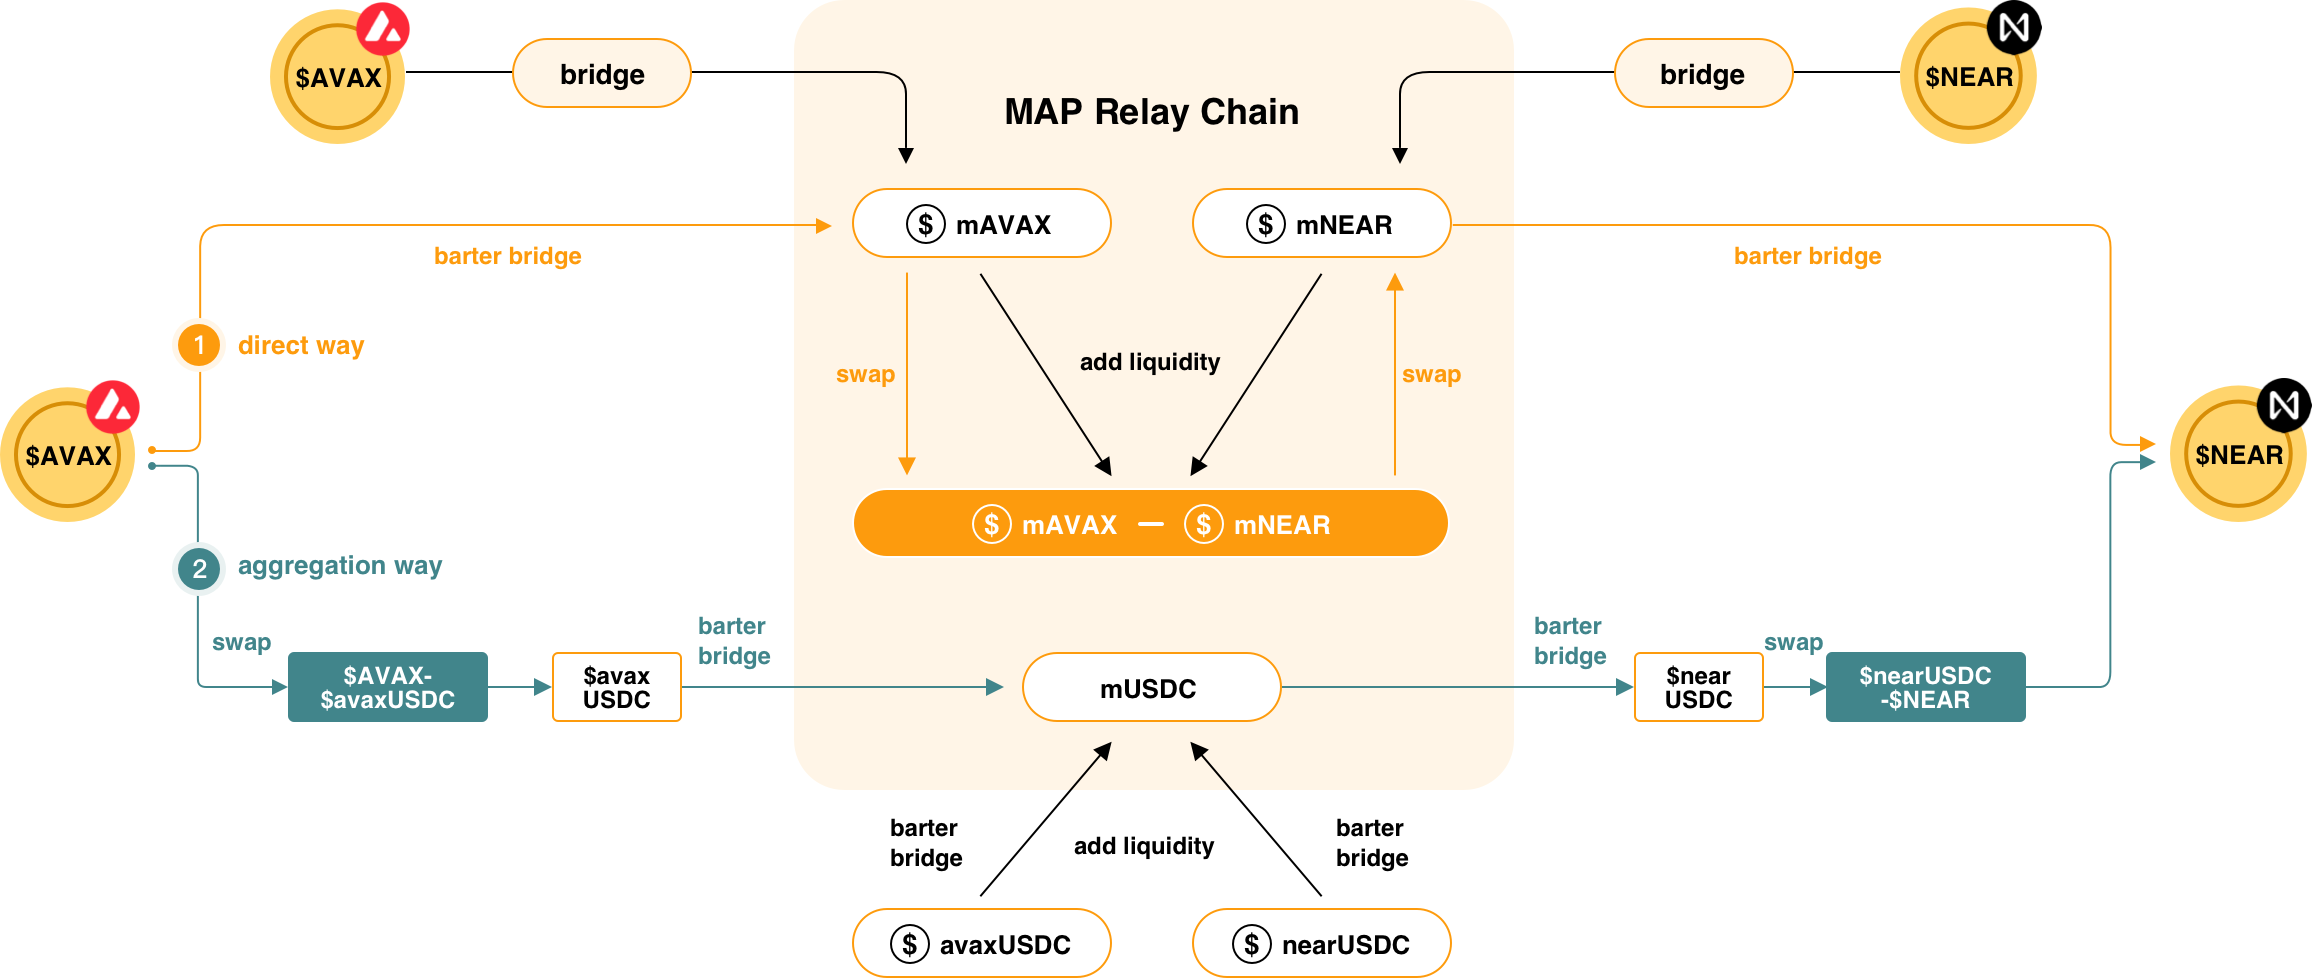
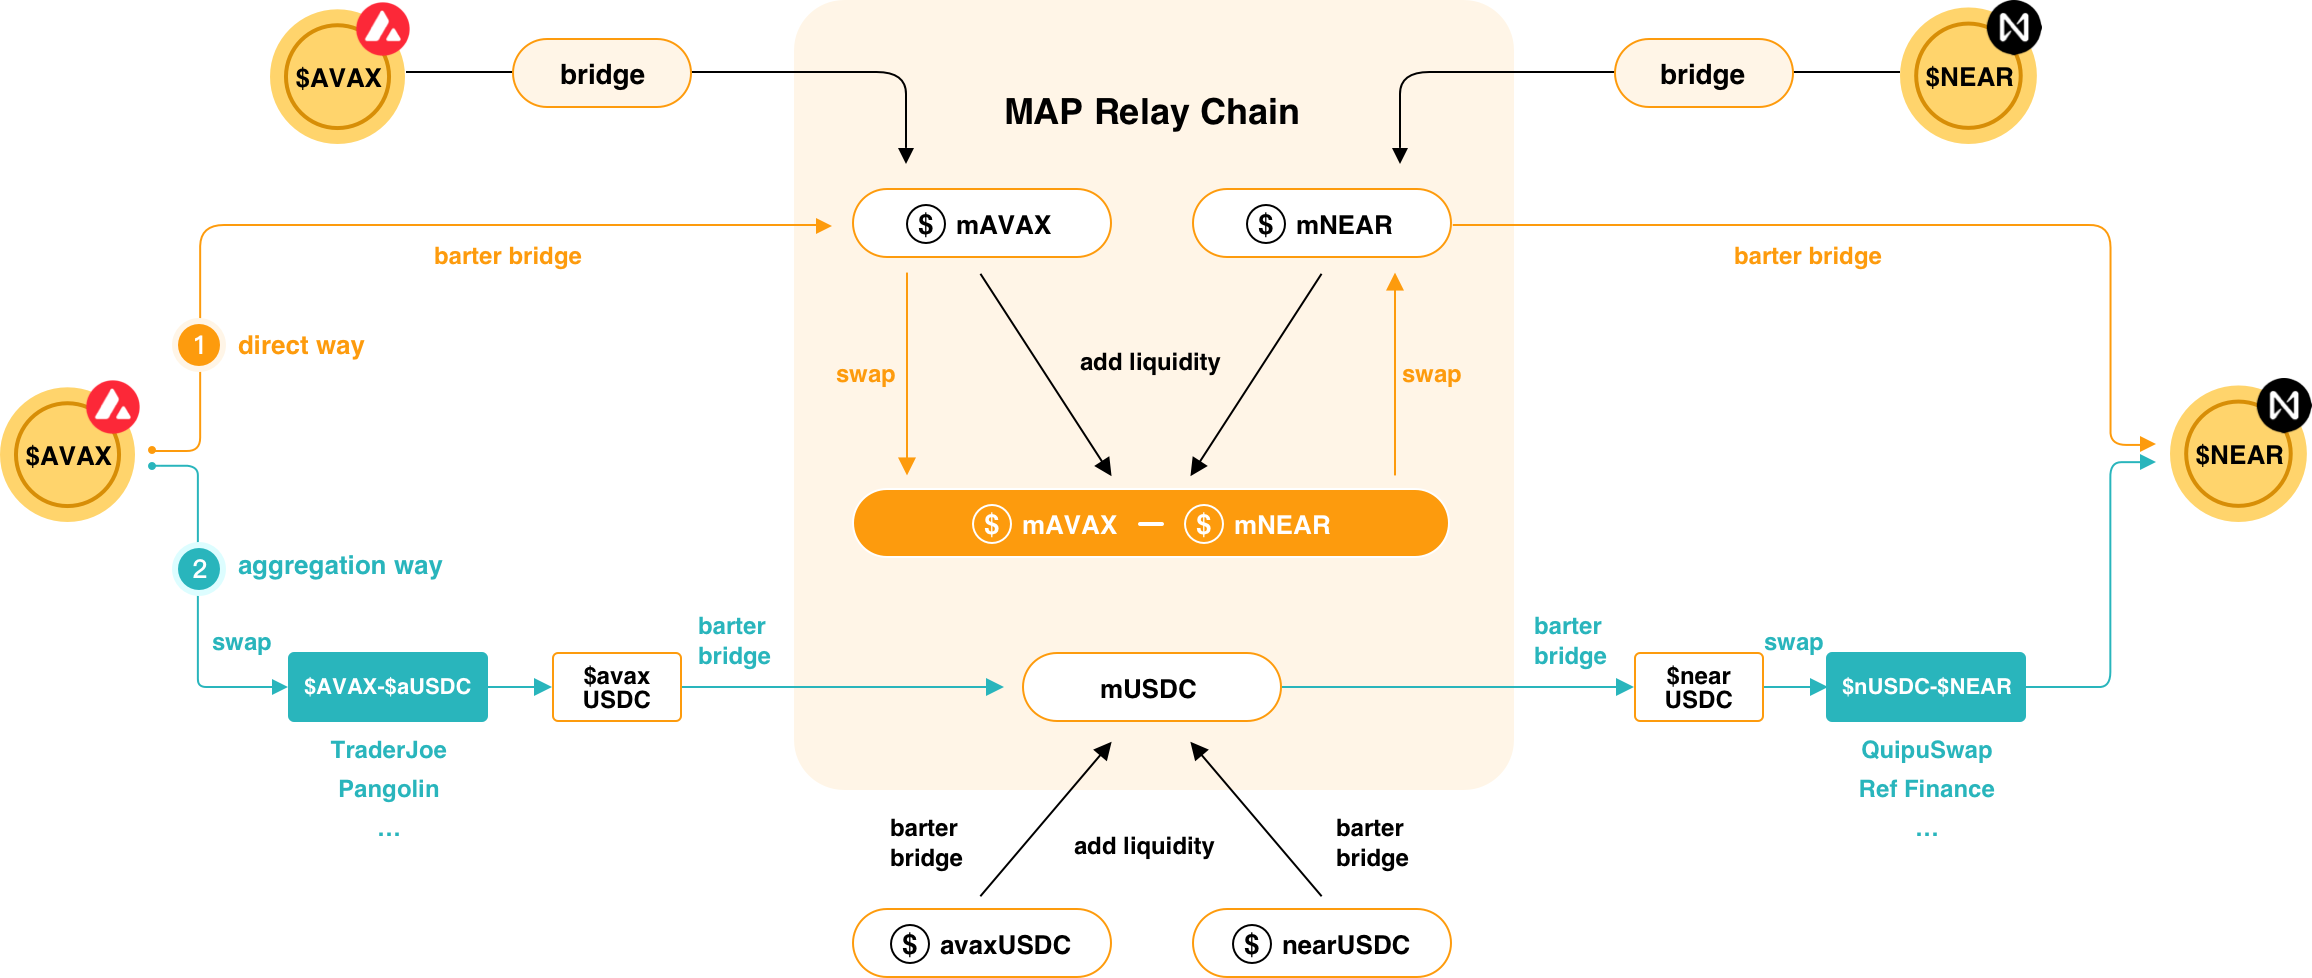
finish

diff --git a/docs/Learn/how-barter-works.md b/docs/Learn/how-barter-works.md
@@ -3,31 +3,32 @@
 Before diving into how Barterswap works, let's first understand its components.  
 
 ## Barterswap Components
-Barterswap consists of three components.  
+Barterswap consists of three main components.  
 
-1. Barter Bridge - A cross-chain bridge developed upon MAP Protocol.
-2. Barter Core - A pioneering cross-chain swapping implementation.
-3. Barter Aggregator - Find the best cross-chain swap route among major DEXs. 
+* Barter Bridge - A cross-chain bridge developed upon MAP Protocol.
+* Barter Core - A pioneering cross-chain swapping implementation.
+* Barter Aggregator - A smart routing service that finds the best cross-chain route among major DEXs. 
 
 ### Barter Bridge
 
-Barter Bridge is a cross-chain bridge built upon MAP protocol. It allows the establishment of connections with all chains barrierless. In short, Barter Bridge allows users to move tokens from one chain to another in a truly decentralized way. The bridge process is fast, cheap, and ensures maximum security thanks to MAP Protocol.
+Barter Bridge is a cross-chain bridge built upon MAP protocol. It allows the establishment of connections with all chains barrierless. In short, Barter Bridge allows users to move tokens from one chain to another in a truly decentralized way. The bridge process is fast, cheap, and ensures maximum security thanks to MAP Protocol.  
+Barter Bridge ensures maximum security, we used blockchain-level security to ensure there is absolutely no risk for users' assets, which no other cross-chain exchange is able to guarantee.
 
 ### Barter Core
-![Barter Core](/img/barter/core.png "Bridge Core")
+![Barter Core](/static/img/barter/core.png "Bridge Core")
 
-Barter Core is a pioneering cross-chain exchange implementation deployed on MAP Protocol's Relay Chain. It allows Barterswap's liquidity pool to hold tokens from different chains such as $AVAX and $NEAR. This also means users can directly exchange tokens from different chains in one liquidity pool.  
+Barter Core is a pioneering cross-chain exchange implementation deployed on MAP Protocol's Relay Chain. It allows Barterswap's liquidity pool to hold tokens from different chains such as $AVAX and $NEAR. This also means users can directly exchange tokens from different chains in one liquidity pool. Better yet, Barterswap guarantees the lowest fee rate with only a 0.4% fee for cross-chain swap, which by far is the lowest compared to others.
 
 ### Barter Aggregator  
 
-![Barter Aggregator](/img/barter/aggregator.png "Bridge Aggregator")
+![Barter Aggregator](/static/img/barter/aggregator.png "Bridge Aggregator")
 Barter Aggregator uses the most advanced price tracing algorithm to find the best cross-chain exchange route based on major DEXs on the market.
 
 ## Cross-Chain Exchange Process
 The diagram below shows how Barterswap really works.
-![Barter Flow](/img/barter/flow.png "Bridge Flow")  
+![Barter Flow](/static/img/barter/flow.png "Bridge Flow")  
 Let's assume Alice wants to swap some of her $AVAX on Avalanche for some $NEAR on Near. There are two ways of exchange using Barterswap:
 1. Direct Swap (Default)  
-First of all, $AVAX token will be wrapped as $mAVAX (a MAP representation of $AVAX) through Barter Bridge. Then $mAVAX will be exchanged through $mAVAX-$mNEAR liquidity pool for $mNEAR. Finally, unwrap $mNEAR through Barter Bridge and send $NEAR to Alice.
+First of all, $AVAX token will be wrapped as $mAVAX (a MAP representation of $AVAX) through Barter Bridge. Then $mAVAX will be exchanged through $mAVAX-$mNEAR liquidity pool for $mNEAR. Finally, unwrap $mNEAR through Barter Bridge and send $NEAR to Alice. And Barterswap only charges a 0.4% fee for the whole process.
 2. Aggregation Swap  
-If unfortunately, there is no $mAVAX-$mNEAR pool, Barterswap will use Barter Aggregator to consider major DEXs on Avalanche, all liquidity pools on Barterswap, and major DEXs on NEAR together, using our advanced algorithm to find the best trade route for Alice. In this case, Barterswap will swap $AVAX for $avaxUSDC on let's say, Trader Joe. Then wrap $avaxUSDC as $mUSDC, unwrap $mUSDC to $nearUSDC, and finally swap $nearUSDC for $NEAR through Near's DEX.
+If unfortunately, there is no $mAVAX-$mNEAR pool, Barterswap will use Barter Aggregator to consider major DEXs on Avalanche, all liquidity pools on Barterswap, and major DEXs on NEAR together, using our advanced algorithm to find the best trade route for Alice. In this case, Barterswap will swap $AVAX for $aUSDC on let's say, Trader Joe. Then wrap $aUSDC as $mUSDC, unwrap $mUSDC to $nUSDC, and finally swap $nUSDC for $NEAR through Quickswap.

diff --git a/docs/Learn/introduction.md b/docs/Learn/introduction.md
@@ -1,4 +1,4 @@
-![Barter Flow](/img/barter/barter-logo.png "Bridge Flow")  
+![Barter Flow](/static/img/barter/barter-logo.png "Bridge Flow")  
 # Overview
 
 ## Background
@@ -7,24 +7,26 @@ For a long time, the cross-chain exchange market has been dominated by centraliz
 
 ## Introduction
 
-Barterswap is a truly decentralized cross-chain exchange deployed on [MAP Protocol](https://www.maplabs.io/). Our mission is to revolutionize the cross-chain status-quo and forge a genuinely decentralized cross-chain exchange with maximum security, minimum fee, and the smoothest cross-chain experience for the crypto community.
-
-The critical difference between Barterswap and other cross-chain exchanges is that Barterswap uses an innovative cross-chain model. __Users can add multi-chain liquidity and exchange between them directly using a genuinely decentralized way.__
+Barterswap is a truly decentralized cross-chain exchange built on [MAP Protocol](https://www.maplabs.io/). Our mission is to revolutionize the cross-chain status-quo and forge a genuinely decentralized cross-chain exchange with maximum security, minimum cost, and the smoothest cross-chain experience for the crypto community.
 
 ## Features
 
-### One-Step Exchange
+### All Chains Supported
 
-Just one click to complete the whole cross-chain exchange process.
+As long as a blockchain is smart contract friendly, Barterswap will support it, EVM or non-EVM. This lets users swap assets from different chains frictionlessly.
+
+### Maximum Security
+
+Barterswap offers the highest level of security that no other cross-chain DEXs is able to offer.
+
+### Lowest Fee Rate
+
+Barterswap guarantees the lowest cost for cross-chain swap. By the lowest we mean the truly lowest, not relying on token incentives to compensate for the cost.
+
+### One Step Swap
+
+Barterswap wants to give users the best possible experience, users are able to complete complex cross-chain exchanges in just one step. 
 
 ### Trade Path Optimization
 
-Barterswap Aggregator adopts the most advanced price tracing algorithm and calculates the best cross-chain route based on most DEXs.
-
-### Blockchain Infrastructure Security
-
-Barterswap is built upon MAP Protocol, the only cross-chain infrastructure supporting all chains with top-tier cross-chain security technology.
-
-### Cost-Efficiency Optimization
-
-The superior efficiency of MAP Protocol leads to substantially low cross-chain costs. Barterswap has the lowest cost compared to other major cross-chain exchange projects based on the direct multi-coin cross-chain exchange mechanism.  
+Barter Aggregator adopts the most advanced price tracing algorithm and calculates the best cross-chain route based on most DEXs.

diff --git a/docs/intro.md b/docs/intro.md
@@ -27,7 +27,7 @@ A set of smart contracts that integrate all popular DEX's core contracts to perf
 ## Barter Bridge
 
 Barter Bridge uses MAP Protocol as the underlying infrastructure. It is responsible for bridging the source token from the source chain to the MAP representation of the token on the MAP relay chain and vice-versa.
-![Barter Bridge](/img/barter/bridge-detail.png "Bridge Illustration")
+![Barter Bridge](/static/img/barter/bridge-detail.png "Bridge Illustration")
 The above diagram shows the complete exchange process of Alice swapping 100 $ETH on Ethereum for 100 $ETH on Solana. Let's see how Barter Bridge works internally through Map Protocol.
 
 1. Barter will lock the $ETH to the vault contract deployed on Ethereum.
@@ -48,7 +48,7 @@ For more information on vault, messenger, and light-client, please see [MAP Prot
 
 Barter Core is an exchange implementation deployed on MAP Protocol's Relay Chain; it allows the direct exchange of tokens from different chains.
 
-![Barter Core](/img/barter/core.png "Bridge Core")
+![Barter Core](/static/img/barter/core.png "Bridge Core")
 
 #### Adding Liquidity
 
